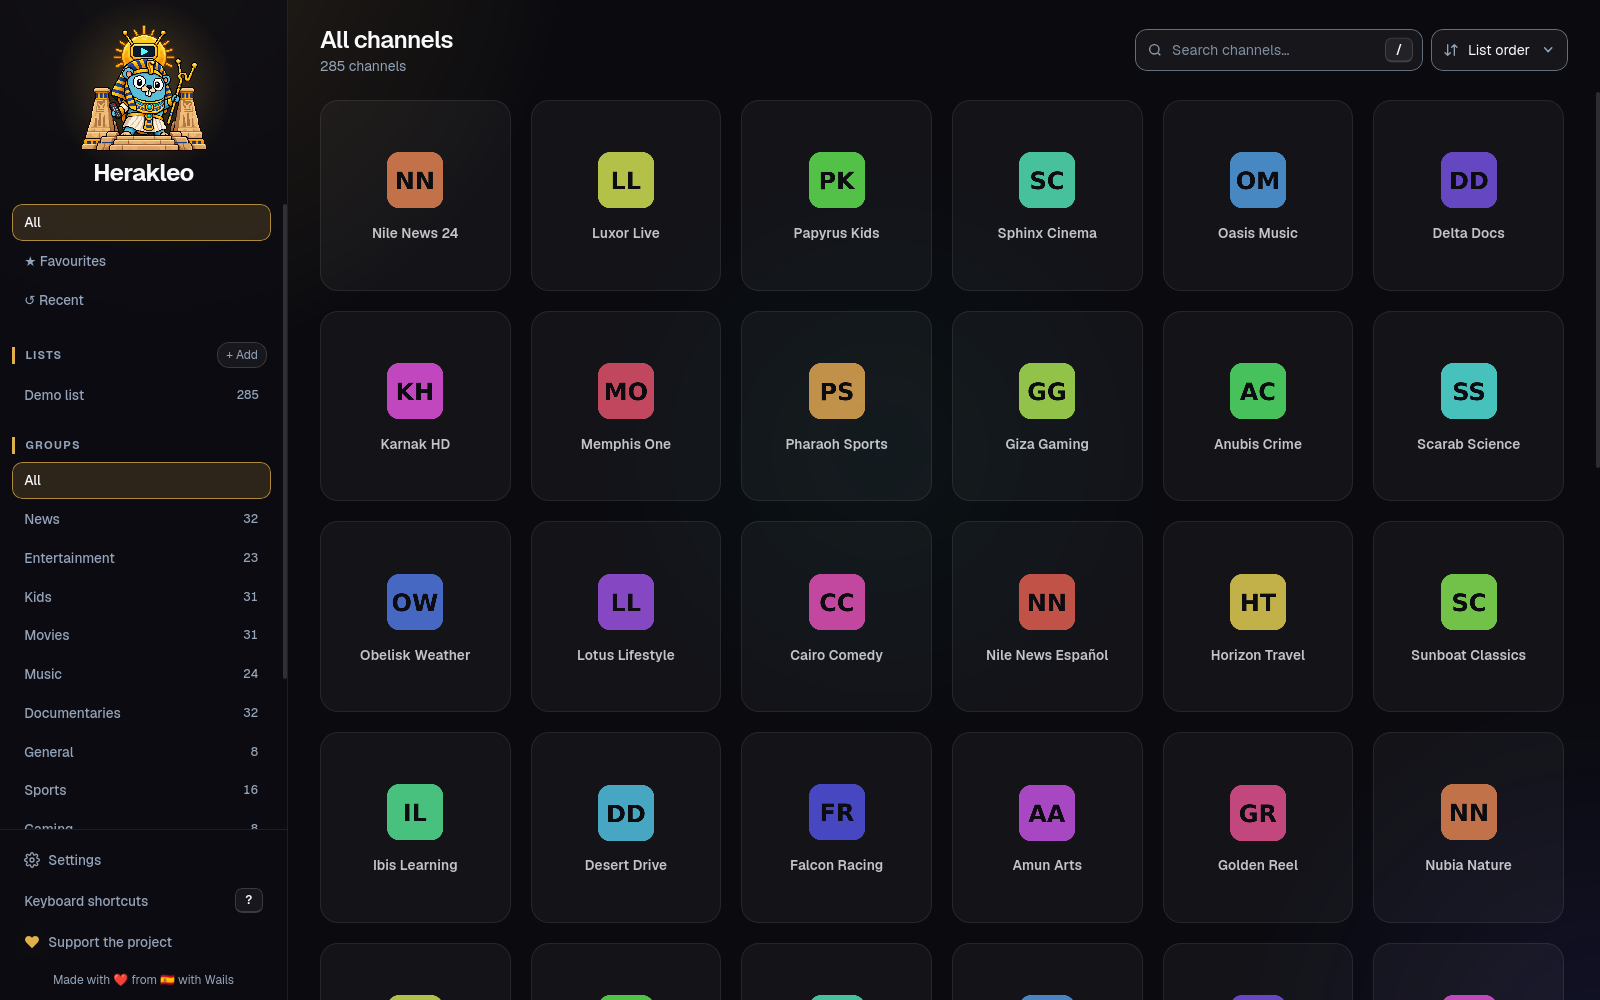
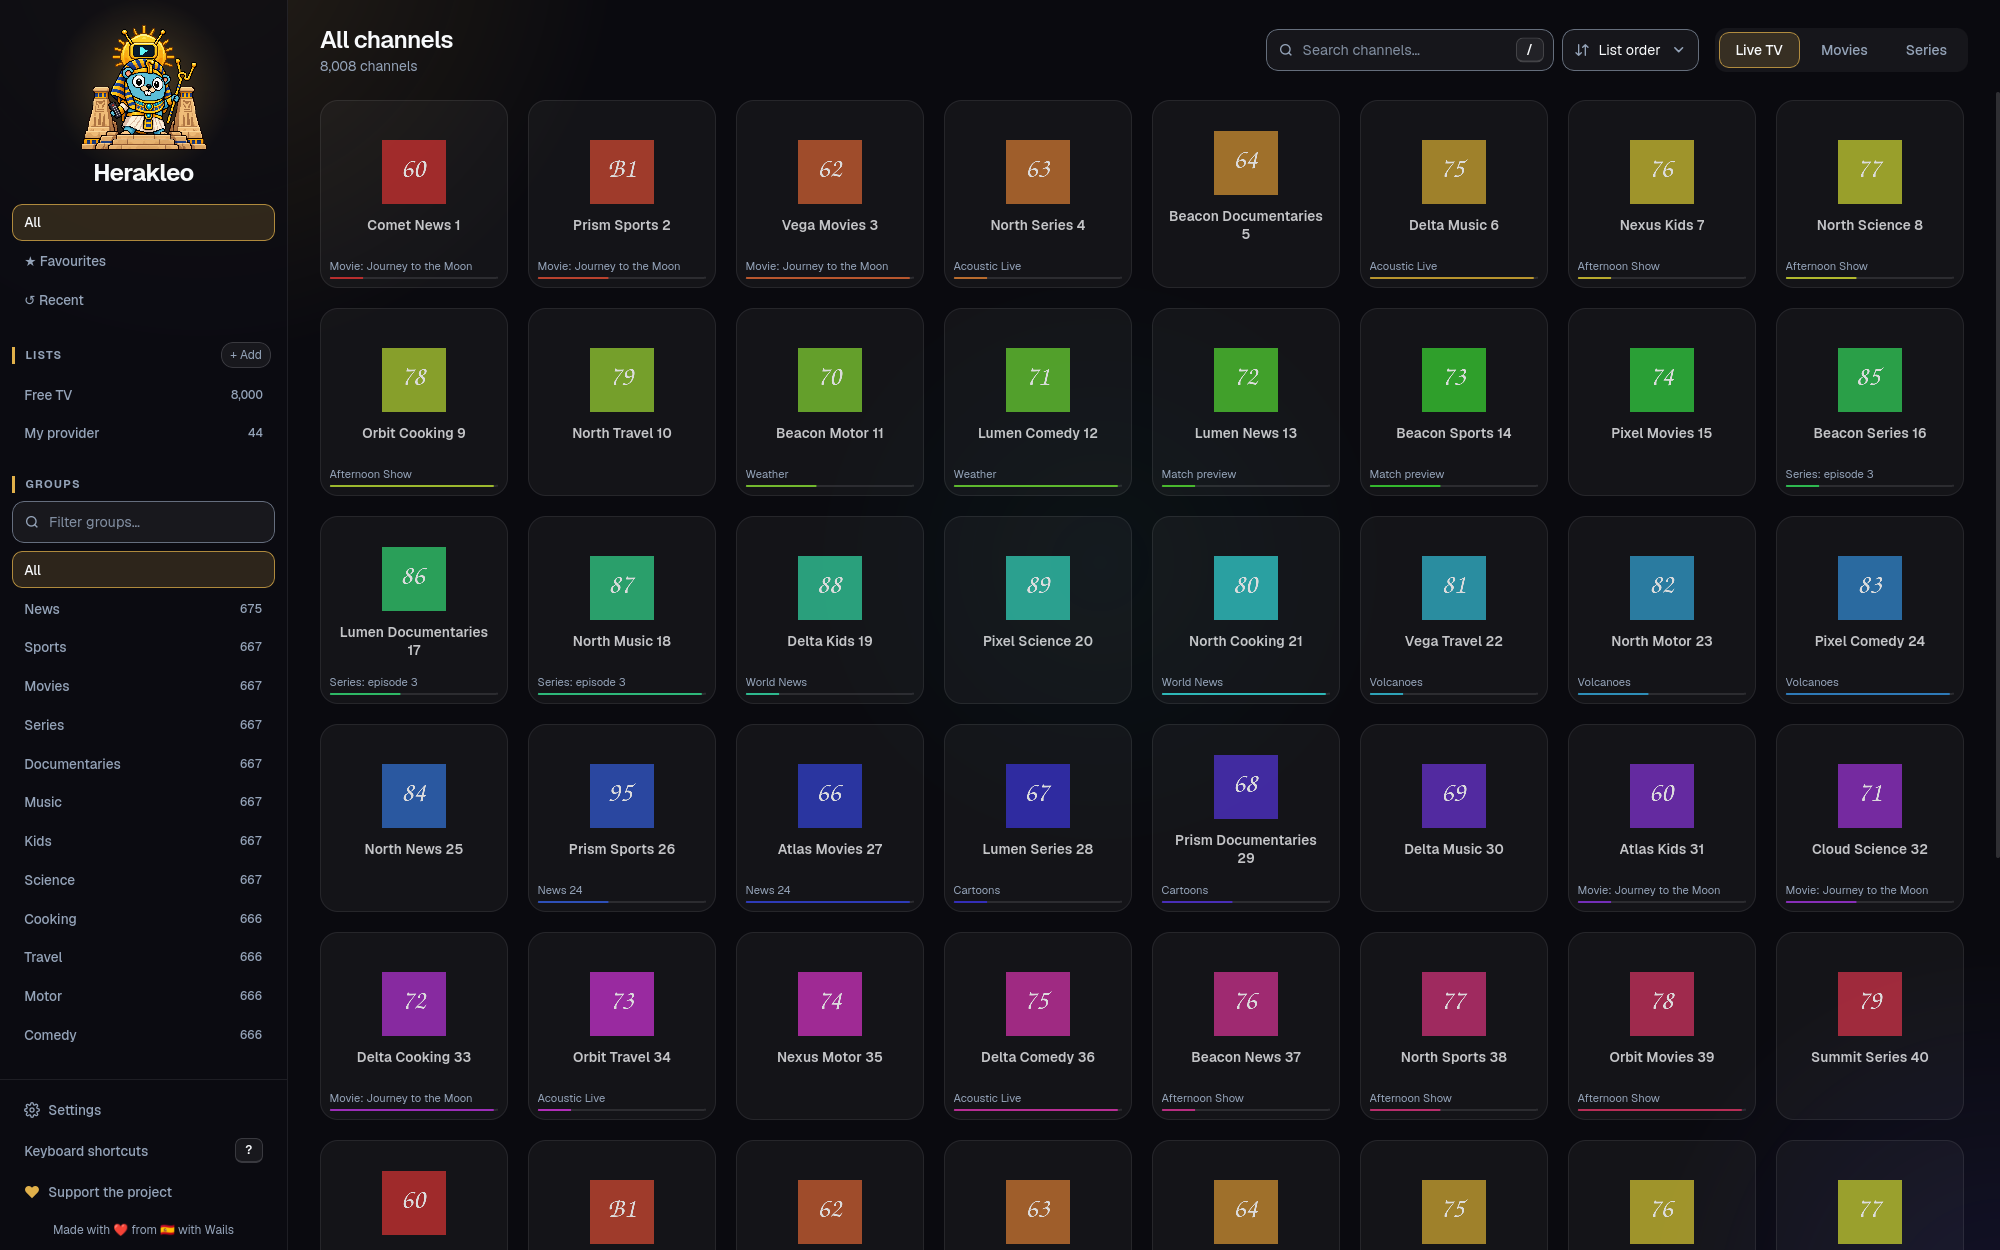
docs: README screenshot with the TV guide and the media tabs (#3)

diff --git a/README.md b/README.md
@@ -24,7 +24,7 @@
 and watch it in mpv or VLC.</p>
 
 <p align="center">
-  <img src="docs/images/herakleo-channels.png" alt="Herakleo channel grid with a list of demo channels, the group list on the left and the search box at the top" width="800">
+  <img src="docs/images/herakleo-channels.png" alt="Herakleo channel grid with demo channels showing what is on now, the Live TV, Movies and Series tabs, the lists and groups on the left" width="800">
 </p>
 
 ## Features
